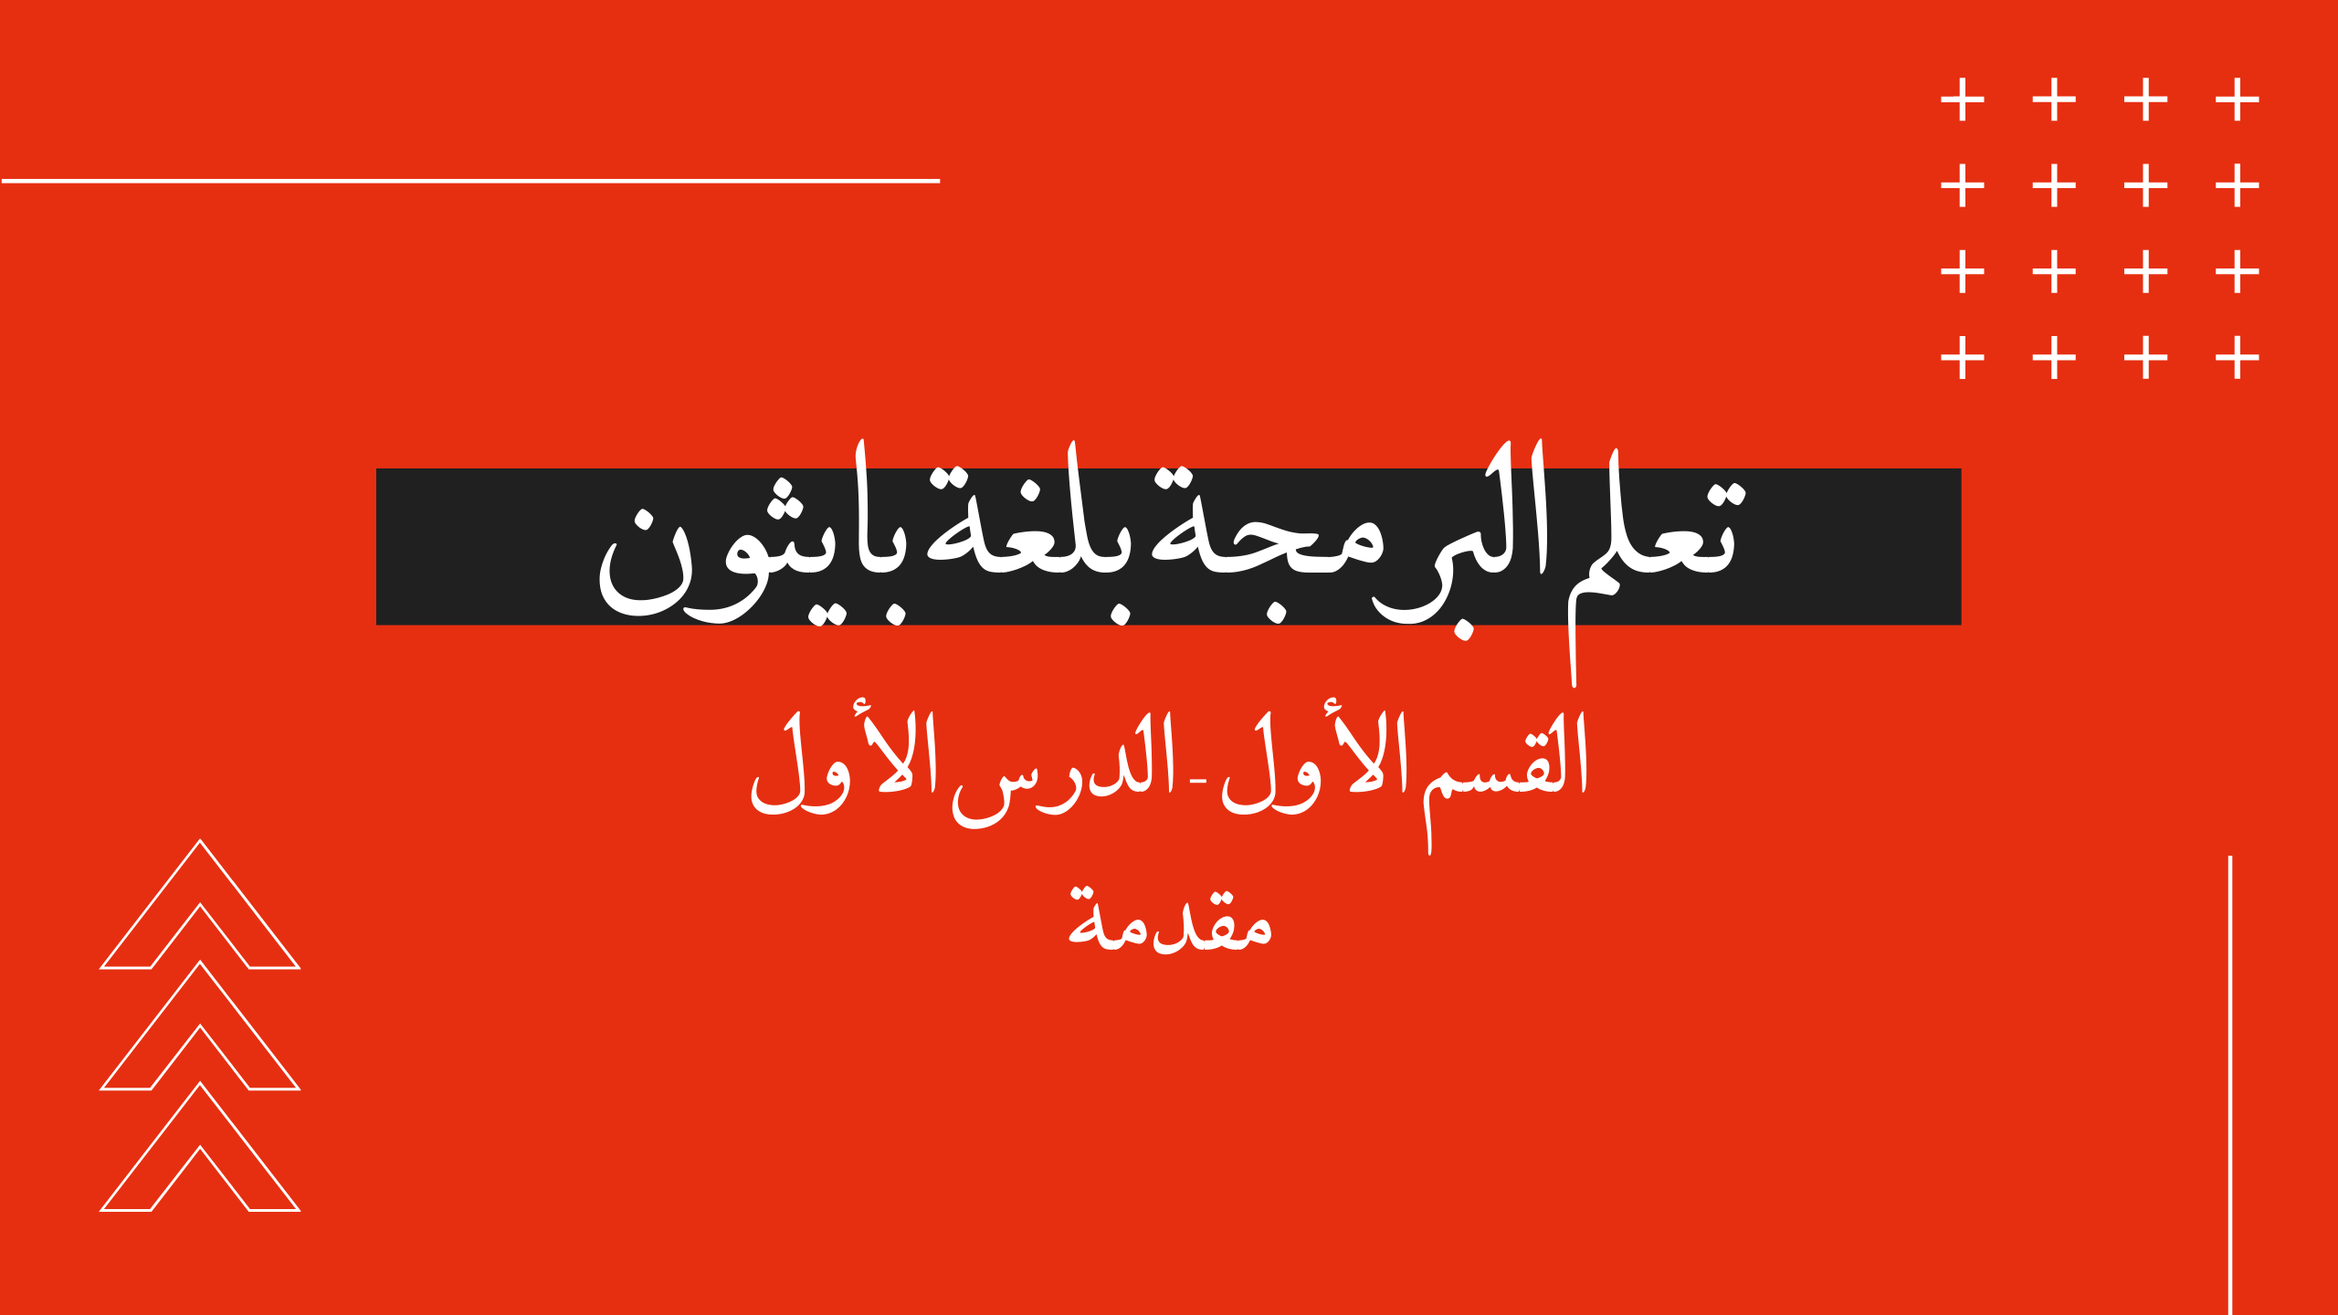
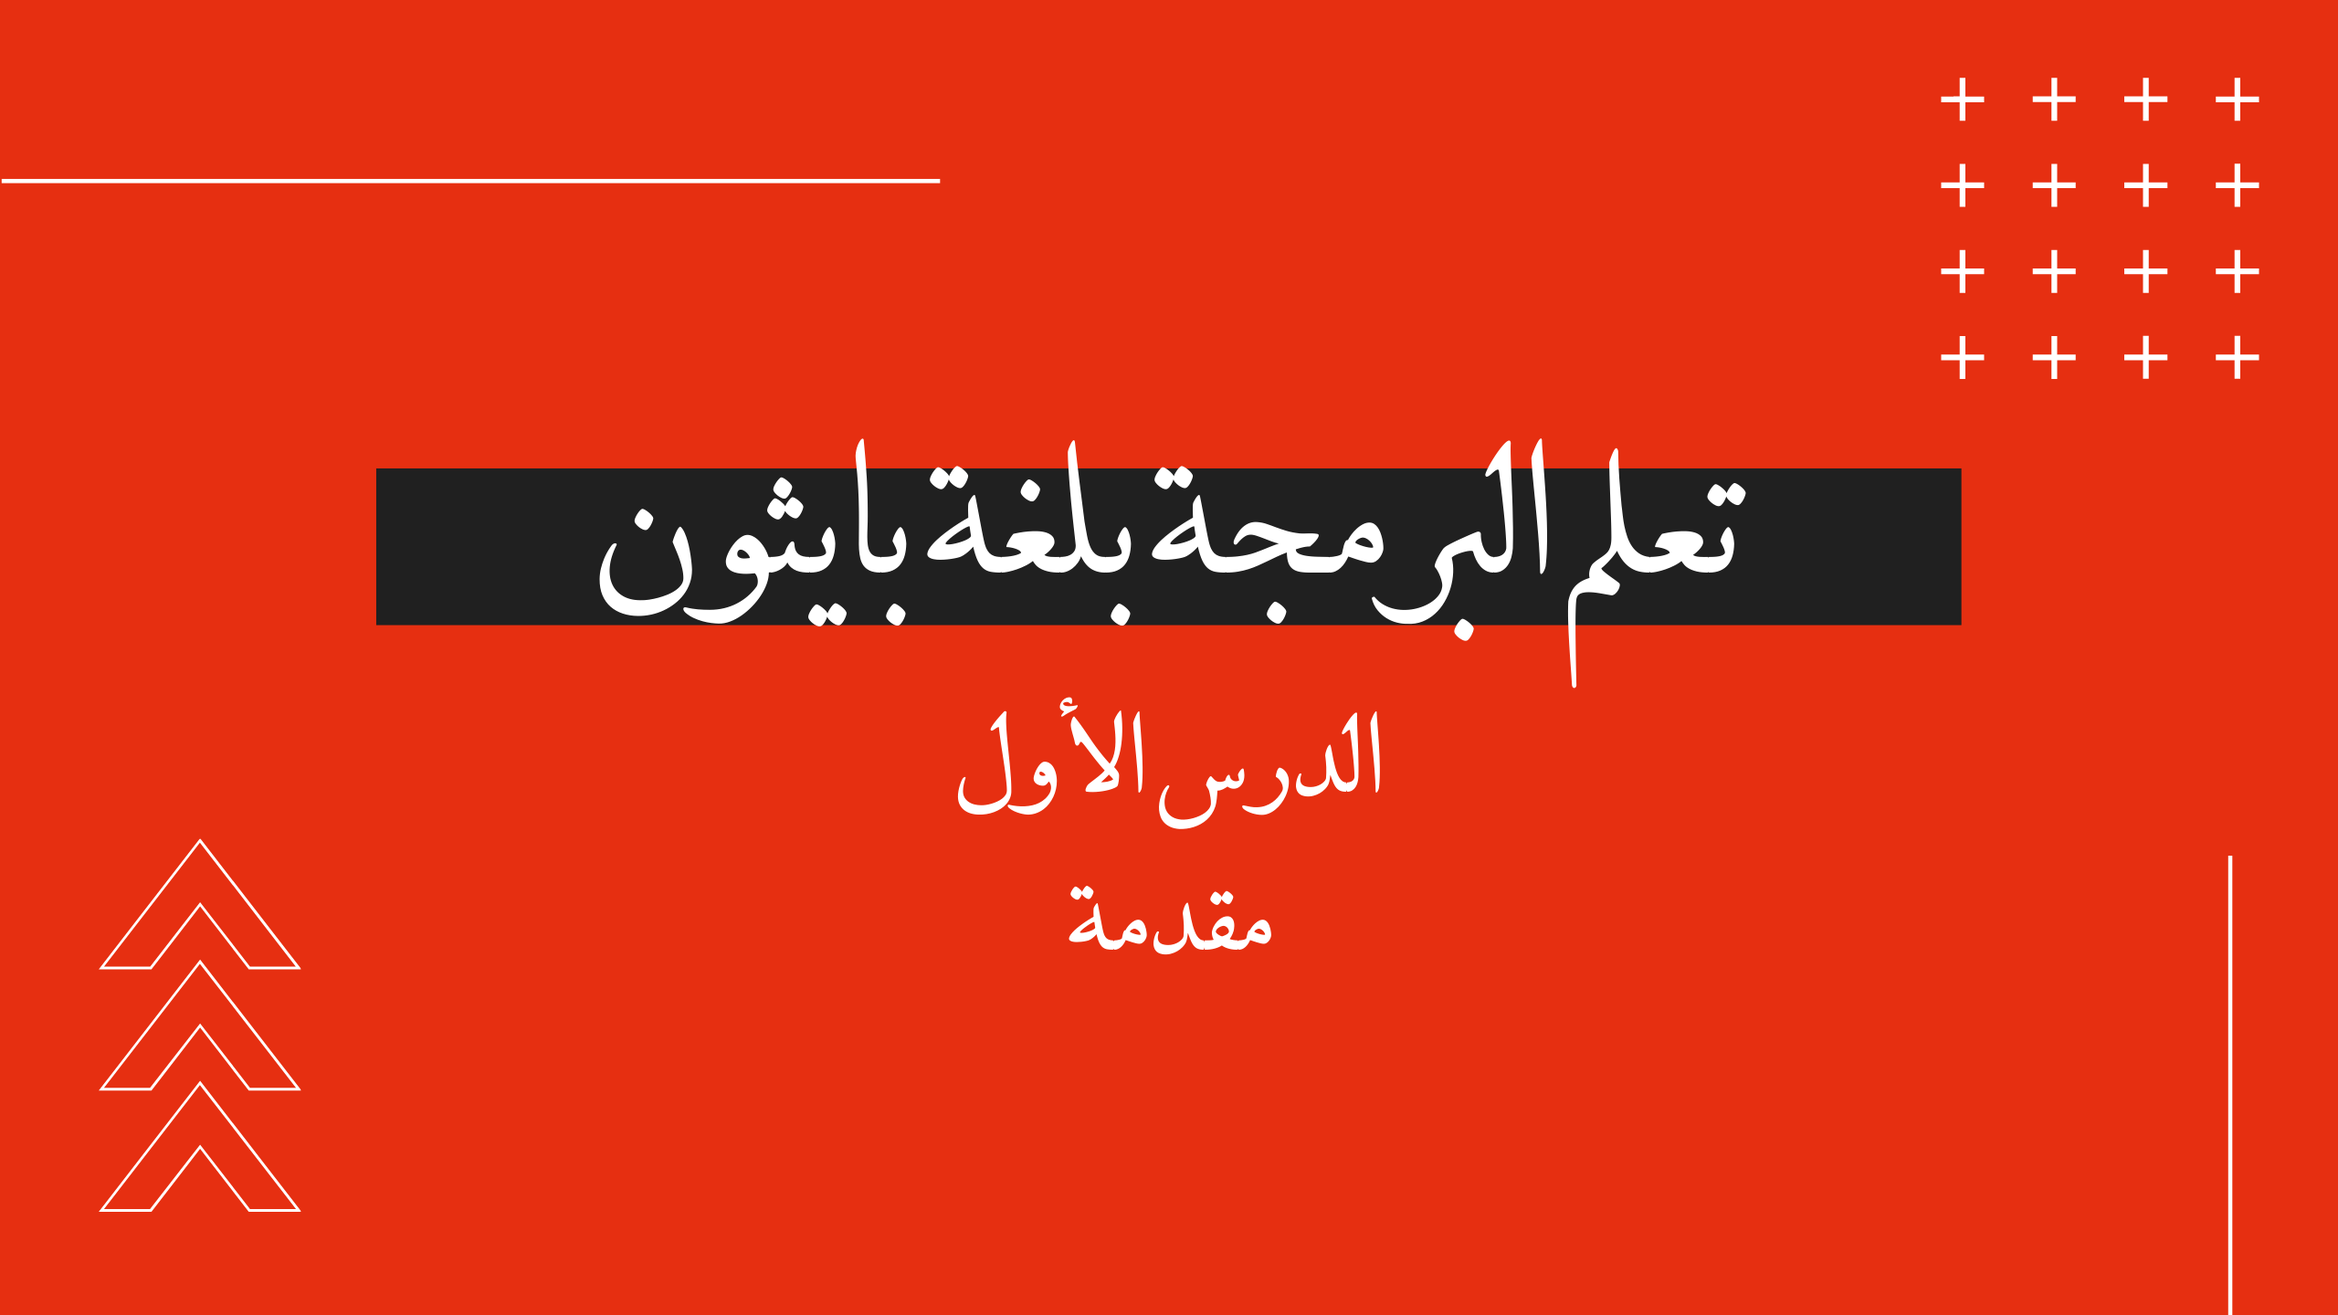
-

Changed region(s): [[0.3125, 0.5312, 0.6875, 0.625]]

diff --git a/_posts/Arabic/2020/2020-03-01-learn-programming-with-python-1-1-arabic.md b/_posts/Arabic/2020/2020-03-01-learn-programming-with-python-1-1-arabic.md
@@ -12,8 +12,6 @@ sharing-img: "/assets/images/2020/fban-head.jpg"
 
 
 
-# القسم الأول - الدرس الأول: مقدمة
-
 ![دورة تعلم البرمجة بلغة بايثون. القسم الأول، الدرس الأول](/assets/images/2020/pyc-1-6.png)
 
 في هذه الدورة **ستتعلم البرمجة بلغة بايثون (Python) من الصفر**. هذه الدورة لا تفترض أن لديك خبرة سابقة في البرمجة ، فيمكنك دخول هذه الدورة حتى لو كنت لا تعرف شيئاً عن البرمجة من قبل.
@@ -26,7 +24,7 @@ sharing-img: "/assets/images/2020/fban-head.jpg"
 
 في هذا الدرس سنناقش الهدف من تعلم البرمجة ، وسنعرف ما هو البرنامج ، وسنرى مثالاً على برنامج بلغة بايثون ، ثم سنتعرف على الأسباب التي تجعلنا نختار بايثون كلغة برمجة لتعلمها ، ثم سنأخذ لمحة سريعة عن مكونات الحاسب وكيفية عمله ، وفي النهاية سأعرفكم عن نفسي ومؤهلاتي لإعداد هذه الدورة.
 
-# لماذا نتعلم البرمجة؟
+## لماذا نتعلم البرمجة؟
 
 قبل أن تبدأ بتعلم البرمجة لا بد أن تسأل نفسك هذا السؤال: لماذا أريد تعلم البرمجة؟. ولتجيب عن هذا السؤال عليك أن تعلم أننا نعيش اليوم في عالم مليء بالتكنولوجيا والأجهرة الإلكترونية: حاسبات ، هواتف محمولة ، أجهزة ذكية ، إلخ. البرمجة تحولك من مجرد مستهلك للتكنولوجيا إلى صانع لها.
 
@@ -34,13 +32,13 @@ sharing-img: "/assets/images/2020/fban-head.jpg"
 
 الحاسب (أو الكمبيوتر) هو جهاز صنع لهدف واحد وهو أن ينفذ ما تأمره به. كيف يمكن أن تعطي الأوامر (أو التعليمات) للحاسب؟ عن طريق برامج مثل برامج بايثون. كيف تصنع هذه البرامج؟ عن طريق تعلم البرمجة. عن طريق البرمجة يمكنك صنع برامج مفيدة لك تستخدمها في حياتك أو برامج يمكن للآخرين أيضاً الاستفادة منها.
 
-# ما هو البرنامج؟
+## ما هو البرنامج؟
 
 البرنامج ببساطة هو سلسلة من التعليمات للكمبيوتر مكتوبة بإحدى لغات البرمجة.
 
 لتقريب الفكرة دعنا نعطي مثالاً من حياتنا عن برنامج للإنسان وهي وصفات الطعام. فمثلاً ستجد تعليمات مكتوبة لك في طريقة التحضير: قطع البطاطا ، ضع المكونات في وعاء ، اخلط المزيج جيداً ، ضعه في الفرن حتى يصبح لونه ذهبياً ، وهكذا. برنامج الكمبيوتر يشبه ذلك ولكنه بدل أن يكون مكتوباً بلغة بشرية كالعربية سيكون مكتوباً بلغة برمجية مثل بايثون أو جافا ، وبدلاً من أن ينفذه الإنسان سيقوم الكمبيوتر بتنفيذه.
 
-# مثال عن برنامج بلغة بايثون
+## مثال عن برنامج بلغة بايثون
 
 كيف يبدو البرنامج المكتوب بلغة بايثون؟ في الصورة أدناه ترى برنامجاً بسيطاً بلغة بايثون. 
 
@@ -48,17 +46,17 @@ sharing-img: "/assets/images/2020/fban-head.jpg"
 
 هذا البرنامج يقوم بإيجاد أكثر كلمة تكررت في ملف نصي ويطبعها للمستخدم. تخيل مثلاً أن أعطيك كتاباً من 300 صفحة وأطلب منك أن تجد أكثر كلمة تكرراً في الكتاب وعدد مرات تكرارها. يمكنك بالطبع أداء هذه المهمة لكنها ستستهلك منك وقتاً طويلاً جداً وجهداً وتركيزاً كبيرين. لكن باستخدام هذا البرنامج الصغير يمكننا إيجاد المطلوب خلال أقل من ثانية (في الحقيقة يمكن لهذا البرنامج أن يبحث في أكثر من ألف صفحة خلال أقل من ربع ثانية!).
 
-# لماذا بايثون؟
+## لماذا بايثون؟
 
 بايثون هي لغة برمجة تم اختراعها قبل حوالي 30 سنة (عام 1991) من قبل مبرمج هولندي اسمه جايدو ڤان روسم. يشارك اليوم المئات من أكفأ المبرمجين حول العالم في تطوير بايثون وتحسينها.
 
 بايثون هي لغة برمجة **متعددة الأغراض** أي أنها تستخدم في الكثير من المجالات مثل برمجة تطبيقات الإنترنت وبرامج الحاسب والبرامج العلمية وعلم البيانات (data science) وتحليل البيانات (data analysis) وتصوير البيانات (data visualization) والذكاء الاصطناعي والشبكات وغيرها.
 
-## بايثون سهلة التعلم للمبتدئين
+### بايثون سهلة التعلم للمبتدئين
 
 من مميزات لغة بايثون أنها **لغة برمجة سهلة التعلم** وفي نفس الوقت **قوية جداً** وتستخدم في أكبر الشركات في العالم. ولهذا السبب تجد أن العديد من جامعات العالم صارت تدرس لغة بايثون لطلابها في سنواتهم الأولى. بالنسبة لي فقد تعلمت العديد من لغات البرمجة مثل C و C++ و Java و غيرها ووجدت فعلاً أن بايثون هي الأسهل بلا منازع. 
 
-## بايثون أشهر لغة برمجة
+### بايثون أشهر لغة برمجة
 
 [يتم استخدام بايثون اليوم من قبل أقوى الشركات](https://en.wikipedia.org/wiki/Programming_languages_used_in_most_popular_websites) على مستوى العالم مثل Google و Facebooks وغيرها. الرسم البياني في الأسفل يوضح مدى شهرة بايثون في Google مقارنة بغيرها من لغات البرمجة القوية مثل جافا وسي شارب وبي إتش بي في آخر خمس سنين. لاحظ كيف أن بايثون (ممثلة باللون الأزرق) ازدادت شهرة مع الأيام حتى أصبحت اليوم تتفوق على جميع هذه اللغات.
 
@@ -70,11 +68,11 @@ sharing-img: "/assets/images/2020/fban-head.jpg"
 
 وبسبب كثرة استخدام بايثون حول العالم فغالباً لن يخطر سؤال في بالك إلا وستجد له جواباً ولن تواجهك مشكلة إلا وستجد أحداً حلها من قبل.
 
-## حزم برمجية لكل شيء
+### حزم برمجية لكل شيء
 
 من مميزات لغة بايثون أيضاً أن هناك الكثير من الحزم البرمجية الجاهزة للاستخدام والتي تجعل القيام بالأمور العظيمة سهلاً في متناول اليد. الحزم البرمجية هي برامج تكون ضخمة أحياناً كتبها مبرمجون وجعلوها متاحة كي يستخدمها غيرهم بسهولة. هناك حزم لتحليل البيانات وحزم لإجراء حسابات رياضية معقدة وحزم أخرى لإنشاء رسوم بيانية وحزم للاتصال بقواعد البيانات المختلفة وحزم لتحميل البيانات من الإنترنت (web crawling) وحزم لتحميل الفيديوهات من يوتيوب وحزم لإنشاء برامج ذكاء اصطناعي وتعلم الآلة (machine learning) ووو... القائمة لا تنتهي. لاحقاً سترى الفائدة العظيمة لهذه الحزم!
 
-# لمحة عن عتاد الحاسب (الهاردوير)
+## لمحة عن عتاد الحاسب (الهاردوير)
 
 بما أن البرامج التي ستكتبها سيتم تنفيذها من قبل الحاسب، فمن المفيد أن نأخذ لمحة سريعة ومبسطة عن كيفية عمل الحاسب من الداخل. 
 
@@ -92,9 +90,13 @@ sharing-img: "/assets/images/2020/fban-head.jpg"
 
 لماذا لا يكفي وجود ذاكرة رئيسية فقط في الحاسب؟ لماذا نحتاج إلى ذاكرة ثانوية؟ لأنه عندما نقوم بإطفاء الحاسب فإن الذاكرة الرئيسية تفقد كل محتوياتها بينما الذاكرة الثانوية تحتفظ بمحتوياتها حتى بعد إطفاء الحاسب.
 
-# من أنا؟
+## من أنا؟
 
 بما أني سأكون الشخص الذي يعد هذه الدورة فلا بد أن أخبركم قليلاً عن نفسي ومؤهلاتي كي تزداد ثقتكم بالمحتوى المقدَّم في هذه الدورة.
 
 اسمي عمار اليوسفي. نلت درجة الماجستير مع مرتبة الشرف في علم البيانات (Data Science) من الجامعة الأولى في ماليزيا جامعة مالايا، وقبلها حصلت على درجة البكالوريوس في هندسة الحاسوب (Computer Engineering) من جامعة الأميرة سمية للتكنولوجيا في الأردن بترتيب الأول على الدفعة. عملت في شركة عالمية في كوالالامبور في مجال علم وتحليل البيانات. ونفذت عدة مشاريع لاقت قبولاً جيداً في مجالات تحليل البيانات وتصوير البيانات وتعلم الآلة وبايثون والعديد من حزمها البرمجية و SQL وغير ذلك. للاطلاع على المزيد من التفاصيل ولزيارة صفحات المشاريع التي قمت بتنفيذها يمكنك زيارة [صفحة سيرتي الذاتية](https://ammar-alyousfi.com/s-resume/).
+
+## فيديو الدرس
+
+<iframe width="560" height="315" src="https://www.youtube.com/embed/w1JEjTvhfW8" frameborder="0" allow="accelerometer; autoplay; encrypted-media; gyroscope; picture-in-picture" allowfullscreen></iframe>
 
